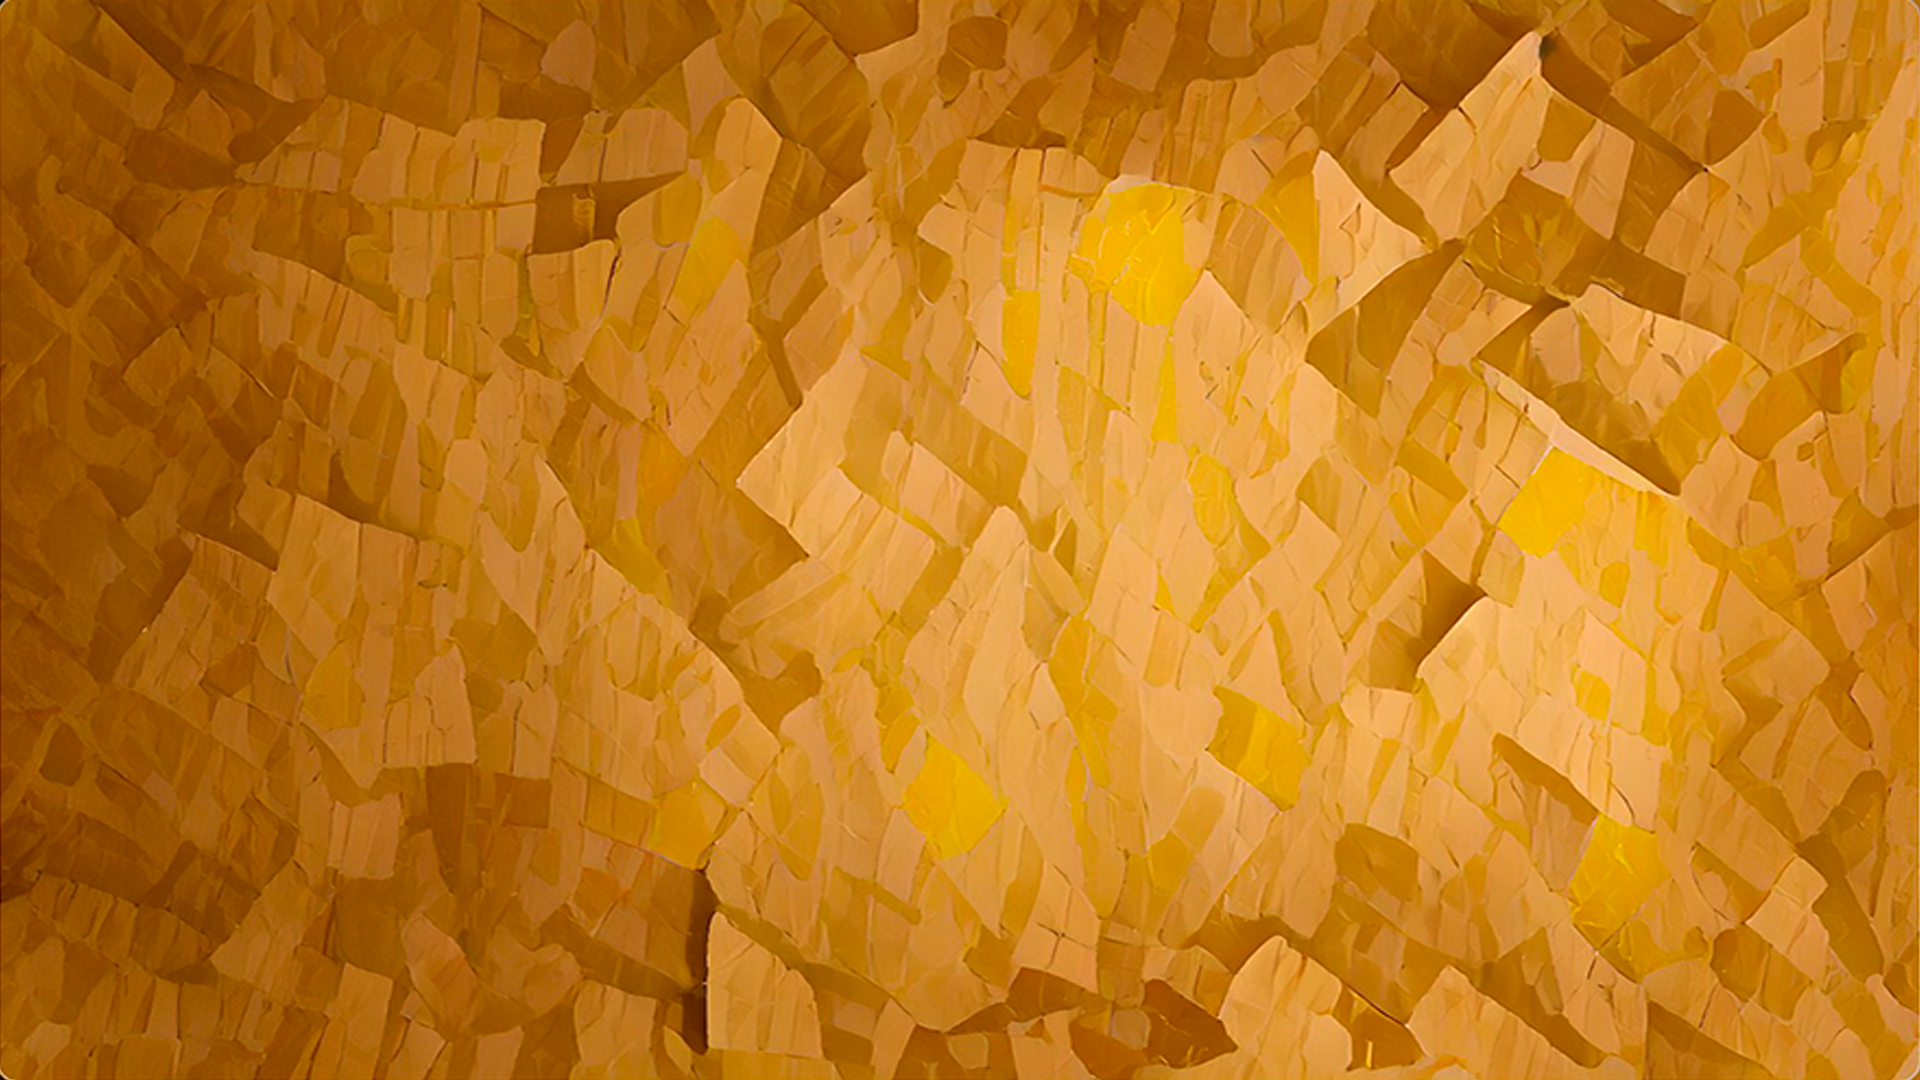
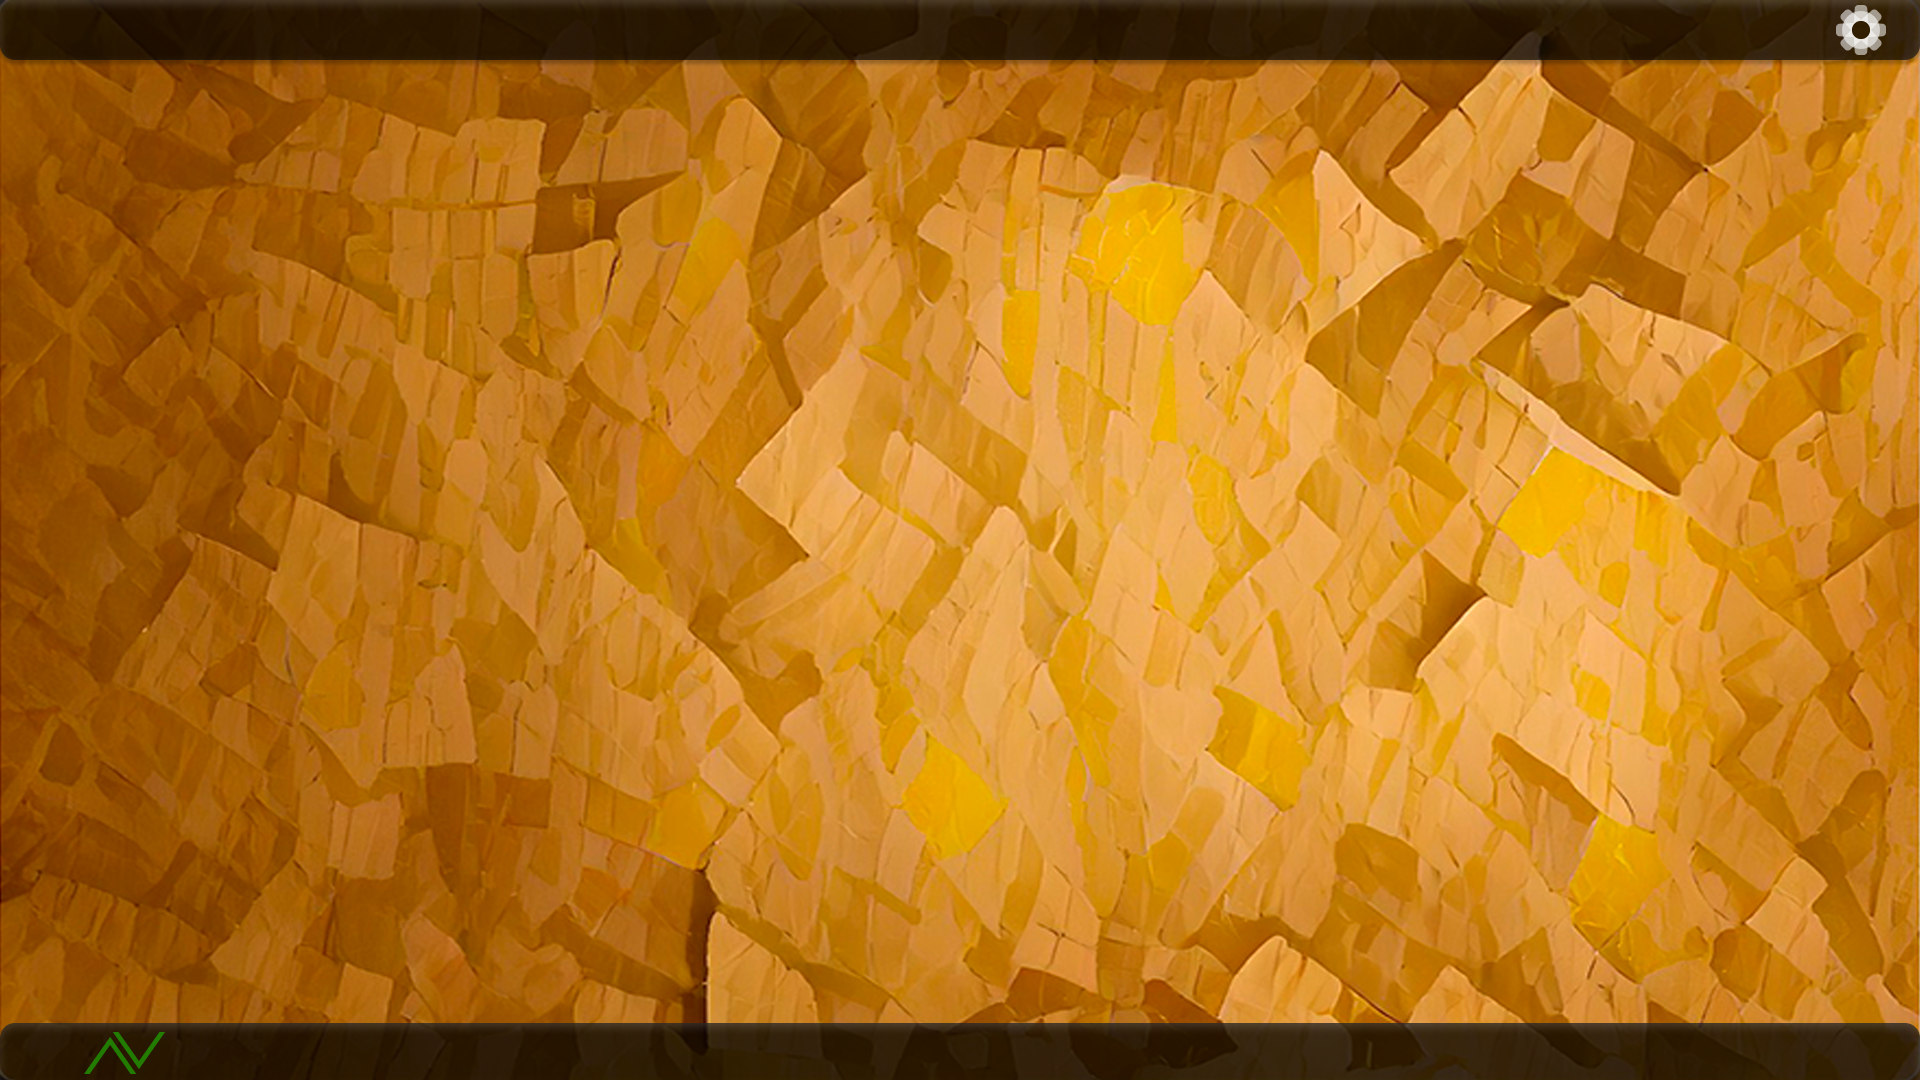
battle top panel

Changed region(s): [[0.0, 0.9472, 1.0, 1.0], [0.0, 0.0, 1.0, 0.0611]]

diff --git a/Battle.py b/Battle.py
@@ -7,14 +7,14 @@ from Classes import  Scene
 class BattleScene(Scene):
     def __init__(self,screen,name,change,bg_image):
 
-        super().__init__(screen,name,change,bg_image)        
+        super().__init__(screen,name,change,bg_image)
         Art = pygame.image.load("Agnosia_assets/tmp_art.png")
         Art.set_colorkey((255, 255, 255))
         self.art = pygame.transform.scale(Art, (HEIGHT // 12, HEIGHT // 12))
-        self.btnImg = ButtonImage(screen,HEIGHT//12,HEIGHT//12,
-                                  image="Agnosia_assets/Agnosia_interface_settings.png",
-                                  image_hover="Agnosia_assets/Agnosia_interface_settings_hover.png"
-                                  )
+        #self.btnImg = ButtonImage(screen,HEIGHT//12,HEIGHT//12,
+        #                          image="Agnosia_assets/Agnosia_interface_settings.png",
+        #                          image_hover="Agnosia_assets/Agnosia_interface_settings_hover.png"
+        #                          )
         fire = pygame.image.load("Agnosia_assets/effect_icons/flame.png")
         self.fireIcon = pygame.transform.scale(fire, (40, 40))
         blind = pygame.image.load("Agnosia_assets/effect_icons/blind.png")
@@ -29,7 +29,7 @@ class BattleScene(Scene):
         self.endTurnBtn = Button(300, 80, None, None, screen, BATTLE_HP_FONT)
         self.pBtn = Button(80, 128, None, None, screen, MAIN_MENU_FONT)
         self.nBtn = Button(80, 128, None, None, screen, MAIN_MENU_FONT)
-
+        self.btnImg = Button(70, 70, None, None, screen, BATTLE_HP_FONT)
 
     def draw(self, player, mobs):
         if mobs.health<=0:
@@ -40,11 +40,11 @@ class BattleScene(Scene):
         startY=640
         # draw rect
         rect = pygame.Rect(0, 0, WIDTH, HEIGHT//12)
-        pygame.draw.rect(self.screen, (27,27,27), (0, 0, WIDTH, HEIGHT//12))
+        #pygame.draw.rect(self.screen, (27,27,27), (0, 0, WIDTH, HEIGHT//12))
         #pygame.draw.rect(self.screen, (27, 27, 27), (0, HEIGHT-HEIGHT//12, WIDTH, HEIGHT // 12))
         #self.backBtn.draw(877, HEIGHT - HEIGHT // 12, "Back", lambda: self.change("Map"))
         # draw gear image button
-        self.btnImg.draw(WIDTH-HEIGHT//12,0,lambda: self.change("Options"))
+        self.btnImg.draw(WIDTH-HEIGHT//12,0,"",lambda: self.change("Options"))
         self.endTurnBtn.draw(1578, 922,"", lambda: player.endTurn(mobs))
         self.pBtn.draw(600, 896, "", lambda: player.showHand(player.handNumber-1))
         self.nBtn.draw(1400, 896, "", lambda: player.showHand(player.handNumber+1))
@@ -61,10 +61,10 @@ class BattleScene(Scene):
                   color=(255, 181, 36))
         draw_text(self.screen, f"{player.block}", WIDTH - 1500, HEIGHT -140, BATTLE_HP_FONT,
                   color=(1, 103, 255))
-        draw_text(self.screen, f"Enemy H : {mobs.health}", WIDTH - 6 * WIDTH // 12, 0, MAP_FONT,
-                  color=(255, 255, 255))
-        draw_text(self.screen, f"Enemy B : {mobs.block}", WIDTH - 3 * WIDTH // 12, 0, MAP_FONT,
-                  color=(255, 255, 255))
+        #draw_text(self.screen, f"Enemy H : {mobs.health}", WIDTH - 6 * WIDTH // 12, 0, MAP_FONT,
+        #          color=(255, 255, 255))
+       # draw_text(self.screen, f"Enemy B : {mobs.block}", WIDTH - 3 * WIDTH // 12, 0, MAP_FONT,
+         #         color=(255, 255, 255))
         self.screen.blit(player.image, player.rect)
         self.screen.blit(mobs.image, mobs.rect)
         pygame.draw.rect(self.screen, (27, 27, 27), (1518, 650, 205, 40))
@@ -102,4 +102,3 @@ class BattleScene(Scene):
         for i,a in enumerate(player.artifacts):
             self.screen.blit(self.art, (i*HEIGHT//12, 0))
         pygame.display.flip()
-
